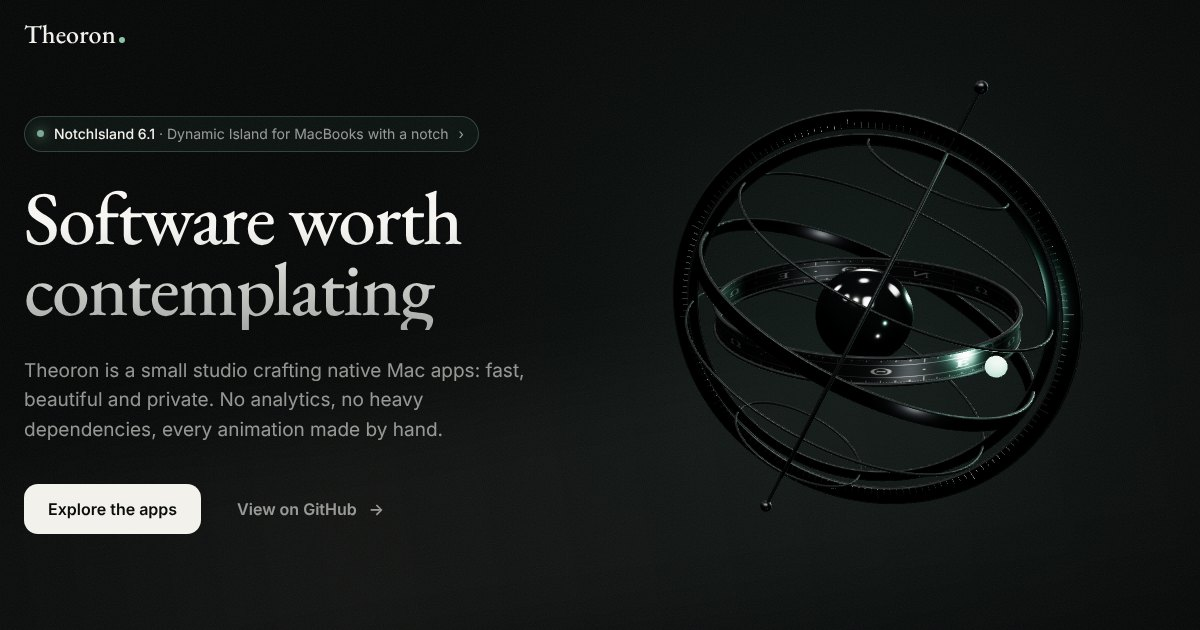
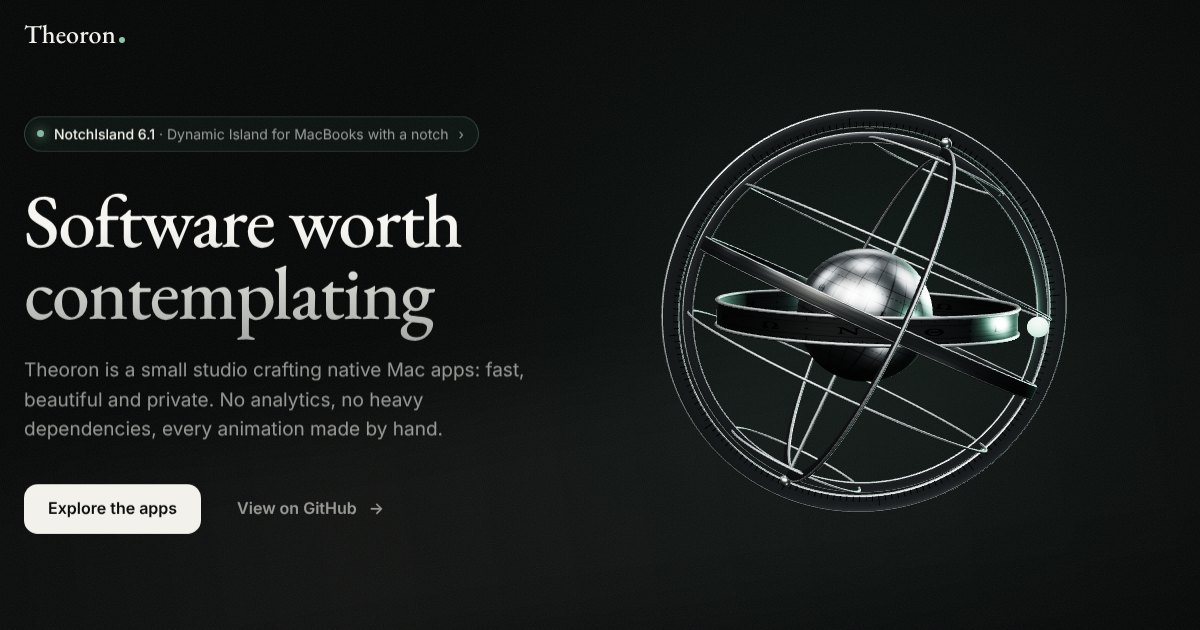
Turn the sphere into oxidized silver around a silver globe
Match the new avatar: brushed, oxidized silver rings with dark engraving, an engraved silver globe at the centre instead of the black core, and a polar axis that ends on the meridian. The meridian now faces the viewer. The static fallback image and the link preview are rendered from the new sphere.

diff --git a/assets/js/sphere.js b/assets/js/sphere.js
@@ -1,10 +1,11 @@
-// The armillary sphere in the hero. Everything is built from code: no model files,
-// so it stays sharp at any size and weighs a few kilobytes on top of three.js.
+// The armillary sphere in the hero: oxidized silver rings around an engraved silver globe.
+// Everything is built from code: no model files, so it stays sharp at any size and weighs
+// a few kilobytes on top of three.js.
 import * as THREE from 'three';
 import { RoomEnvironment } from '../vendor/RoomEnvironment.js';
 
 const TILT = THREE.MathUtils.degToRad(23.4);
-const BASE_ROTATION = new THREE.Euler(0.32, -0.45, -0.38);
+const BASE_ROTATION = new THREE.Euler(0.12, 0, -0.42); // the meridian faces the viewer, like the avatar
 
 // Options: centered/scale/fixedTime render a still, centred frame (used for avatars and previews);
 // onFirstDrag fires once when the visitor first turns the sphere.
@@ -13,7 +14,7 @@ export async function createSphere(canvas, { reducedMotion = false, hero, center
   const weakDevice = (navigator.hardwareConcurrency || 8) <= 4;
   renderer.setPixelRatio(Math.min(devicePixelRatio, weakDevice ? 1.25 : 1.75));
   renderer.toneMapping = THREE.ACESFilmicToneMapping;
-  renderer.toneMappingExposure = 1.05;
+  renderer.toneMappingExposure = 1.2;
 
   const scene = new THREE.Scene();
   const pmrem = new THREE.PMREMGenerator(renderer);
@@ -24,17 +25,20 @@ export async function createSphere(canvas, { reducedMotion = false, hero, center
   camera.position.set(0, 0, 11);
 
   // A warm key light, a green rim from behind (the brand colour) and a soft fill.
-  const key = new THREE.DirectionalLight(0xfff6ea, 2.4); key.position.set(-4, 5, 6);
-  const rim = new THREE.DirectionalLight(0x8cc2ab, 3.2); rim.position.set(5, 1.5, -5);
+  const key = new THREE.DirectionalLight(0xfff6ea, 3); key.position.set(-4, 5, 6);
+  const rim = new THREE.DirectionalLight(0x8cc2ab, 10); rim.position.set(5, 1.5, -5);
   const fill = new THREE.DirectionalLight(0xffffff, 0.35); fill.position.set(2, -4, 3);
   scene.add(key, rim, fill);
 
   // ---------------------------------------------------------------- materials
-  const metal = new THREE.MeshPhysicalMaterial({ color: 0x23272a, metalness: 1, roughness: 0.3, clearcoat: 0.4, clearcoatRoughness: 0.25 });
-  const engraved = new THREE.MeshStandardMaterial({ color: 0x9aa09d, metalness: 1, roughness: 0.22 });
-  const obsidian = new THREE.MeshPhysicalMaterial({ color: 0x07090a, metalness: 0.15, roughness: 0.12, clearcoat: 1, clearcoatRoughness: 0.06, envMapIntensity: 1.5 });
+  // Oxidized, brushed silver; engravings are dark, like niello.
+  try { await document.fonts.load('500 120px "EB Garamond"', 'ΘΕΩΡΝ'); } catch { /* falls back to a system serif */ }
+  const brushed = brushedTexture();
+  const metal = new THREE.MeshPhysicalMaterial({ color: 0x99a0a4, metalness: 1, roughness: 0.34, roughnessMap: brushed, clearcoat: 0.5, clearcoatRoughness: 0.3 });
+  const engraved = new THREE.MeshStandardMaterial({ color: 0x1b1f21, metalness: 1, roughness: 0.22 });
   const glow = new THREE.MeshStandardMaterial({ color: 0xaee0ca, emissive: 0x5fb08f, emissiveIntensity: 2.2, roughness: 0.3 });
-  const band = new THREE.MeshPhysicalMaterial({ map: await engravingTexture(renderer), metalness: 1, roughness: 0.36, side: THREE.DoubleSide });
+  const band = new THREE.MeshPhysicalMaterial({ map: engravingTexture(renderer), metalness: 1, roughness: 0.38, roughnessMap: brushed, side: THREE.DoubleSide });
+  const globe = new THREE.MeshPhysicalMaterial({ map: globeTexture(renderer), metalness: 1, roughness: 0.32, clearcoat: 0.5, clearcoatRoughness: 0.25 });
 
   // ---------------------------------------------------------------- parts
   // A ring with a machined cross-section (a rectangle with chamfered edges),
@@ -97,11 +101,11 @@ export async function createSphere(canvas, { reducedMotion = false, hero, center
   planet.add(new THREE.PointLight(0x8cc2ab, 2.5, 3, 2));
   orbit.add(planet);
 
-  // Obsidian core, polar axis and finials.
-  root.add(new THREE.Mesh(new THREE.SphereGeometry(0.42, 96, 96), obsidian));
-  root.add(new THREE.Mesh(new THREE.CylinderGeometry(0.016, 0.016, R * 2.55, 16), metal));
+  // The globe at the centre, and the polar axis that ends on the meridian.
+  root.add(new THREE.Mesh(new THREE.SphereGeometry(0.59, 128, 128), globe));
+  root.add(new THREE.Mesh(new THREE.CylinderGeometry(0.016, 0.016, R * 1.92, 16), metal));
   for (const y of [-1, 1]) {
-    const cap = new THREE.Mesh(new THREE.SphereGeometry(0.055, 32, 32), metal); cap.position.y = y * R * 1.275; root.add(cap);
+    const cap = new THREE.Mesh(new THREE.SphereGeometry(0.055, 32, 32), metal); cap.position.y = y * R * 0.96; root.add(cap);
   }
   root.rotation.copy(BASE_ROTATION);
 
@@ -225,17 +229,16 @@ export async function createSphere(canvas, { reducedMotion = false, hero, center
 }
 
 // The ecliptic band: graduations along both edges and "ΘΕΩΡΩΝ" engraved twice around.
-async function engravingTexture(renderer) {
-  try { await document.fonts.load('500 120px "EB Garamond"', 'ΘΕΩΡΝ'); } catch { /* falls back to a system serif */ }
+function engravingTexture(renderer) {
   const W = 4096, H = 320;
   const c = document.createElement('canvas'); c.width = W; c.height = H;
   const g = c.getContext('2d');
-  g.fillStyle = '#4f5557'; g.fillRect(0, 0, W, H);
+  g.fillStyle = '#8b9194'; g.fillRect(0, 0, W, H);
   for (let i = 0; i < 700; i++) { // brushed metal
     g.fillStyle = `rgba(255,255,255,${(Math.random() * 0.05).toFixed(3)})`;
     g.fillRect(0, Math.random() * H, W, 1);
   }
-  g.fillStyle = '#e6ebe8';
+  g.fillStyle = '#111416';
   for (let i = 0; i < 360; i++) {
     const x = (i / 360) * W, len = i % 30 === 0 ? 74 : i % 5 === 0 ? 46 : 26;
     g.fillRect(x - 1.5, 0, 3, len);
@@ -253,4 +256,44 @@ async function engravingTexture(renderer) {
   tex.colorSpace = THREE.SRGBColorSpace;
   tex.anisotropy = renderer.capabilities.getMaxAnisotropy();
   return tex;
+}
+
+// The globe: a graticule every 15°, dashed tropics and "ΘΕΩΡΩΝ" along the equator.
+function globeTexture(renderer) {
+  const W = 2048, H = 1024;
+  const c = document.createElement('canvas'); c.width = W; c.height = H;
+  const g = c.getContext('2d');
+  g.fillStyle = '#9aa1a5'; g.fillRect(0, 0, W, H);
+  for (let i = 0; i < 900; i++) { g.fillStyle = `rgba(0,0,0,${(Math.random() * 0.06).toFixed(3)})`; g.fillRect(Math.random() * W, 0, 1, H); }
+  g.strokeStyle = '#1b1f21';
+  for (let lon = 0; lon < 24; lon++) {
+    g.lineWidth = lon % 6 === 0 ? 5 : 2.5;
+    const x = (lon / 24) * W; g.beginPath(); g.moveTo(x, 0); g.lineTo(x, H); g.stroke();
+  }
+  for (let lat = -75; lat <= 75; lat += 15) {
+    g.lineWidth = lat === 0 ? 6 : 2.5;
+    const y = H / 2 - (lat / 180) * H; g.beginPath(); g.moveTo(0, y); g.lineTo(W, y); g.stroke();
+  }
+  g.setLineDash([14, 12]); g.lineWidth = 2.5;
+  for (const lat of [-23.4, 23.4]) { const y = H / 2 - (lat / 180) * H; g.beginPath(); g.moveTo(0, y); g.lineTo(W, y); g.stroke(); }
+  g.setLineDash([]);
+  g.fillStyle = '#1b1f21'; g.font = '500 54px "EB Garamond", Georgia, serif'; g.textAlign = 'center';
+  [...'ΘΕΩΡΩΝ'].forEach((ch, i) => g.fillText(ch, ((i + 0.5) / 6) * W, H / 2 - 22));
+  const tex = new THREE.CanvasTexture(c);
+  tex.colorSpace = THREE.SRGBColorSpace;
+  tex.anisotropy = renderer.capabilities.getMaxAnisotropy();
+  return tex;
+}
+
+// Brushed metal: fine streaks running around each ring (u goes around, v across the profile).
+function brushedTexture() {
+  const c = document.createElement('canvas'); c.width = 64; c.height = 1024;
+  const g = c.getContext('2d');
+  for (let y = 0; y < 1024; y++) {
+    const v = Math.round(160 + (Math.random() - 0.5) * 133);
+    g.fillStyle = `rgb(${v},${v},${v})`; g.fillRect(0, y, 64, 1);
+  }
+  const t = new THREE.CanvasTexture(c);
+  t.wrapS = t.wrapT = THREE.RepeatWrapping; t.repeat.set(1, 3);
+  return t;
 }
